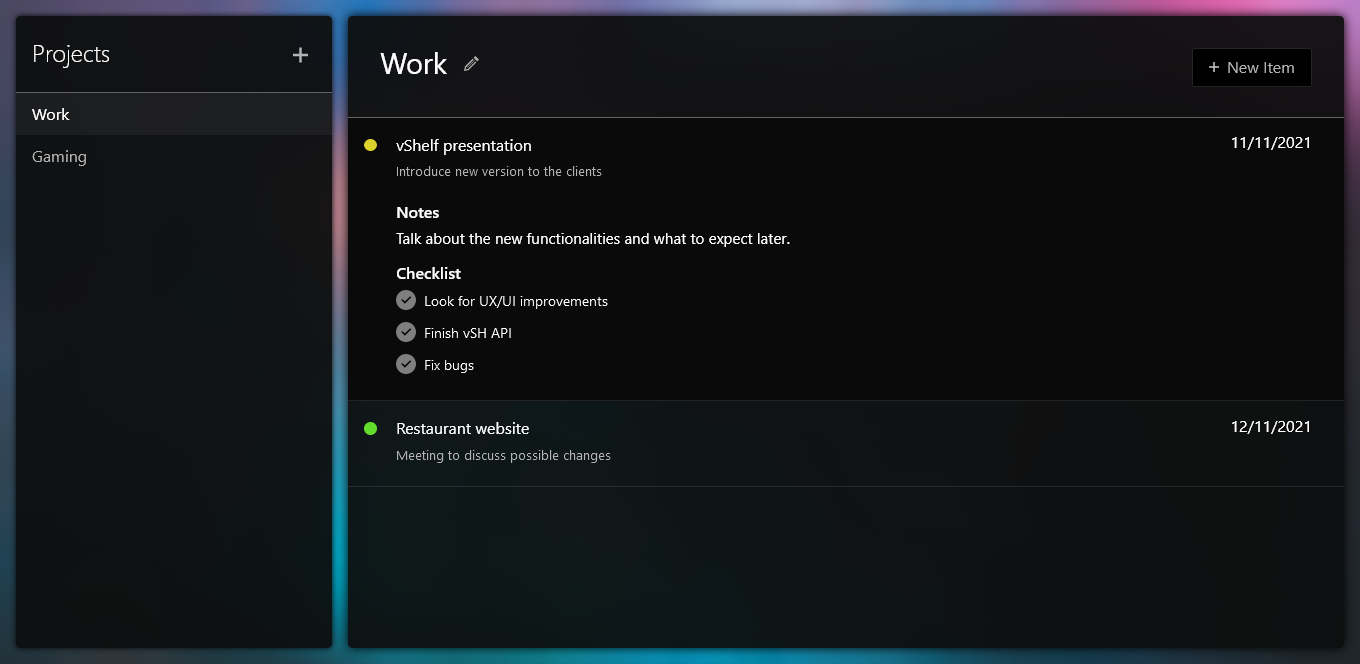
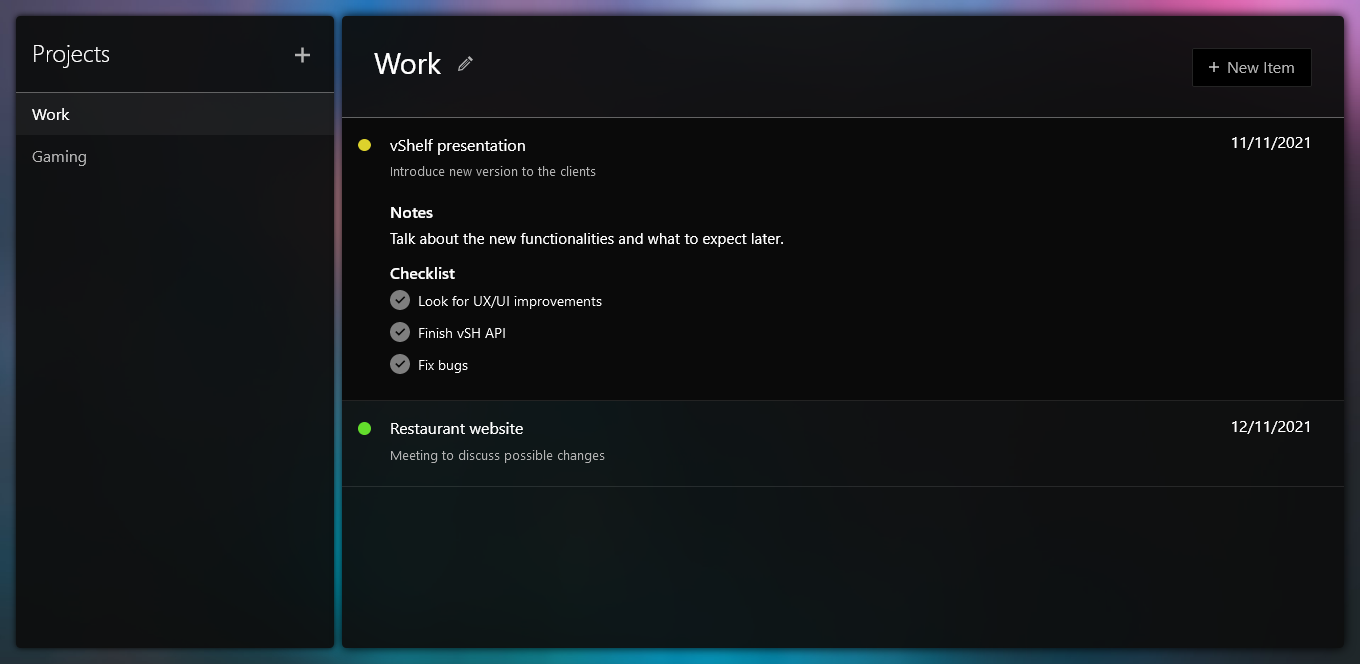
Update README

Changed region(s): [[0.2162, 0.0301, 0.5868, 0.9639]]

diff --git a/dist/main.js b/dist/main.js
@@ -16,7 +16,7 @@
   \**********************************************************************************************************/
 /***/ ((module, __webpack_exports__, __webpack_require__) => {
 
-eval("__webpack_require__.r(__webpack_exports__);\n/* harmony export */ __webpack_require__.d(__webpack_exports__, {\n/* harmony export */   \"default\": () => (__WEBPACK_DEFAULT_EXPORT__)\n/* harmony export */ });\n/* harmony import */ var _node_modules_css_loader_dist_runtime_noSourceMaps_js__WEBPACK_IMPORTED_MODULE_0__ = __webpack_require__(/*! ../../node_modules/css-loader/dist/runtime/noSourceMaps.js */ \"./node_modules/css-loader/dist/runtime/noSourceMaps.js\");\n/* harmony import */ var _node_modules_css_loader_dist_runtime_noSourceMaps_js__WEBPACK_IMPORTED_MODULE_0___default = /*#__PURE__*/__webpack_require__.n(_node_modules_css_loader_dist_runtime_noSourceMaps_js__WEBPACK_IMPORTED_MODULE_0__);\n/* harmony import */ var _node_modules_css_loader_dist_runtime_api_js__WEBPACK_IMPORTED_MODULE_1__ = __webpack_require__(/*! ../../node_modules/css-loader/dist/runtime/api.js */ \"./node_modules/css-loader/dist/runtime/api.js\");\n/* harmony import */ var _node_modules_css_loader_dist_runtime_api_js__WEBPACK_IMPORTED_MODULE_1___default = /*#__PURE__*/__webpack_require__.n(_node_modules_css_loader_dist_runtime_api_js__WEBPACK_IMPORTED_MODULE_1__);\n/* harmony import */ var _node_modules_css_loader_dist_runtime_getUrl_js__WEBPACK_IMPORTED_MODULE_2__ = __webpack_require__(/*! ../../node_modules/css-loader/dist/runtime/getUrl.js */ \"./node_modules/css-loader/dist/runtime/getUrl.js\");\n/* harmony import */ var _node_modules_css_loader_dist_runtime_getUrl_js__WEBPACK_IMPORTED_MODULE_2___default = /*#__PURE__*/__webpack_require__.n(_node_modules_css_loader_dist_runtime_getUrl_js__WEBPACK_IMPORTED_MODULE_2__);\n// Imports\n\n\n\nvar ___CSS_LOADER_URL_IMPORT_0___ = new URL(/* asset import */ __webpack_require__(/*! ../assets/bg.jpg */ \"./src/assets/bg.jpg\"), __webpack_require__.b);\nvar ___CSS_LOADER_EXPORT___ = _node_modules_css_loader_dist_runtime_api_js__WEBPACK_IMPORTED_MODULE_1___default()((_node_modules_css_loader_dist_runtime_noSourceMaps_js__WEBPACK_IMPORTED_MODULE_0___default()));\nvar ___CSS_LOADER_URL_REPLACEMENT_0___ = _node_modules_css_loader_dist_runtime_getUrl_js__WEBPACK_IMPORTED_MODULE_2___default()(___CSS_LOADER_URL_IMPORT_0___);\n// Module\n___CSS_LOADER_EXPORT___.push([module.id, \"* {\\n  margin: 0;\\n  padding: 0;\\n  box-sizing: border-box;\\n  text-decoration: none;\\n  border: 0;\\n  list-style: none;\\n  font-size: 16px;\\n  line-height: 1;\\n}\\n\\nbody {\\n  background-color: #fff;\\n  color: #fff;\\n  font-family: -apple-system, BlinkMacSystemFont, \\\"Segoe UI\\\", \\\"Open Sans\\\", Roboto, Oxygen, Ubuntu, Cantarell, \\\"Helvetica Neue\\\", sans-serif;\\n  width: 100%;\\n  height: 100vh;\\n}\\n\\ninput:focus,\\ntextarea:focus,\\nbutton:focus {\\n  outline: none;\\n}\\n\\n.btn {\\n  font-family: -apple-system, BlinkMacSystemFont, \\\"Segoe UI\\\", \\\"Open Sans\\\", Roboto, Oxygen, Ubuntu, Cantarell, \\\"Helvetica Neue\\\", sans-serif;\\n  font-size: 0.8rem;\\n  padding: 0.4rem 1rem;\\n  cursor: pointer;\\n  background-color: transparent;\\n  border: 1px solid #b3b3b3;\\n  color: #b3b3b3;\\n  transition: 0.3s;\\n  border-radius: 2px;\\n}\\n\\n.btn:hover {\\n  color: #fff;\\n  border: 1px solid #fff;\\n}\\n\\n.btn:focus {\\n  outline: 1px solid #fff;\\n  outline-offset: -1px;\\n}\\n\\n.overlay {\\n  position: absolute;\\n  top: 0;\\n  left: 0;\\n  width: 100%;\\n  height: 100%;\\n  background-color: rgba(0, 0, 0, 0.9);\\n  display: flex;\\n  justify-content: center;\\n  align-items: center;\\n  z-index: 1;\\n  border-radius: 0.25rem;\\n  animation: fade-in 0.3s;\\n}\\n\\n.form-wrapper {\\n  overflow-y: auto;\\n  display: flex;\\n  flex-direction: column-reverse;\\n  width: 90%;\\n  max-width: 650px;\\n  max-height: 90%;\\n  animation: zoom-out 0.3s;\\n}\\n\\n.form {\\n  background-color: #0d0e0e;\\n  padding: 1.5rem 1rem;\\n  border-radius: 0.25rem;\\n  max-height: 90%;\\n  z-index: 2;\\n  position: relative;\\n}\\n.form p {\\n  margin-bottom: 0.5rem;\\n  font-weight: 600;\\n}\\n\\n#btn-close-form {\\n  position: absolute;\\n  right: 0;\\n  top: 0;\\n  background-color: transparent;\\n  padding: 1rem 1rem 0.25rem 1rem;\\n  border: 0;\\n  outline: none;\\n}\\n#btn-close-form svg {\\n  fill: #fff;\\n  width: 15px;\\n  height: 15px;\\n  pointer-events: none;\\n}\\n\\n.form-item {\\n  display: block;\\n}\\n.form-item label {\\n  display: block;\\n  margin-bottom: 0.5rem;\\n  font-weight: 600;\\n}\\n.form-item input {\\n  width: 100%;\\n  margin-bottom: 1rem;\\n  padding: 0.5rem;\\n  background-color: rgba(255, 255, 255, 0.05);\\n  border: 1px solid rgba(179, 179, 179, 0.2);\\n  color: #fff;\\n  font-family: -apple-system, BlinkMacSystemFont, \\\"Segoe UI\\\", \\\"Open Sans\\\", Roboto, Oxygen, Ubuntu, Cantarell, \\\"Helvetica Neue\\\", sans-serif;\\n}\\n.form-item input:focus {\\n  border: 1px solid rgba(179, 179, 179, 0.5);\\n}\\n\\n#form-item--notes {\\n  min-width: 100%;\\n  max-width: 100%;\\n  min-height: 80px;\\n  margin-bottom: 1rem;\\n  font-family: -apple-system, BlinkMacSystemFont, \\\"Segoe UI\\\", \\\"Open Sans\\\", Roboto, Oxygen, Ubuntu, Cantarell, \\\"Helvetica Neue\\\", sans-serif;\\n  padding: 0.5rem;\\n  background-color: rgba(255, 255, 255, 0.05);\\n  border: 1px solid rgba(179, 179, 179, 0.2);\\n  color: #fff;\\n  line-height: 1.4;\\n}\\n\\n#form-item--notes:focus {\\n  border: 1px solid rgba(179, 179, 179, 0.5);\\n}\\n\\n.form-group {\\n  display: flex;\\n  flex-wrap: wrap;\\n  column-gap: 2rem;\\n}\\n\\n.left {\\n  flex-grow: 1;\\n}\\n\\n.radio-wrapper {\\n  display: flex;\\n  justify-content: left;\\n  align-items: center;\\n  gap: 1rem;\\n}\\n\\n.radio-item {\\n  display: flex;\\n  align-items: center;\\n  line-height: 1.8;\\n  padding-right: 2rem;\\n}\\n.radio-item input {\\n  margin-top: 0.65rem;\\n  margin-right: 0.3rem;\\n}\\n\\n.checklist {\\n  display: flex;\\n  flex-direction: column;\\n}\\n.checklist input:not(:first-child) {\\n  border-top: 0;\\n  margin-bottom: 0;\\n}\\n\\n.checklist-item {\\n  display: flex;\\n}\\n.checklist-item input {\\n  margin-bottom: 0;\\n}\\n\\n#btn-new-checklist-item {\\n  height: 41px;\\n  aspect-ratio: 1;\\n  font-size: 2rem;\\n  font-weight: 300;\\n  display: flex;\\n  justify-content: center;\\n  align-items: flex-end;\\n  border-radius: 0 0.25rem 0.25rem 0;\\n  border: 1px solid rgba(179, 179, 179, 0.2);\\n  padding: 0.4rem 0 0.45rem;\\n  border-left: 0;\\n}\\n#btn-new-checklist-item svg {\\n  pointer-events: none;\\n  fill: #ccc;\\n  width: 15px;\\n  transition: 0.3s;\\n}\\n\\n#btn-new-checklist-item:hover {\\n  border: 1px solid rgba(179, 179, 179, 0.5);\\n}\\n#btn-new-checklist-item:hover svg {\\n  fill: #fff;\\n}\\n\\n#btn-submit-form {\\n  margin: 1rem 0 0;\\n}\\n\\n@keyframes zoom-out {\\n  0% {\\n    opacity: 0;\\n    transform: scale(1.2);\\n  }\\n  100% {\\n    opacity: 1;\\n    transform: scale(1);\\n  }\\n}\\n@keyframes fade-in {\\n  0% {\\n    opacity: 0;\\n  }\\n  100% {\\n    opacity: 1;\\n  }\\n}\\n#header {\\n  padding: 2rem 2rem;\\n  border-bottom: 1px solid rgba(179, 179, 179, 0.5);\\n}\\n\\n.header-title {\\n  display: flex;\\n  flex-wrap: wrap;\\n  position: relative;\\n  width: max-content;\\n  max-width: 60%;\\n  transition: width 0.5s ease-in-out;\\n}\\n\\nh1 {\\n  font-weight: 400;\\n  font-size: 1.8rem;\\n  padding-bottom: 0.5rem;\\n  overflow: hidden;\\n}\\n\\n.tip {\\n  position: absolute;\\n  left: 0;\\n  bottom: -0.8rem;\\n  font-size: 0.8rem;\\n  display: none;\\n  color: #b3b3b3;\\n}\\n\\n#btn-edit-project {\\n  border: 0;\\n  outline: none;\\n  position: absolute;\\n  top: 50%;\\n  transform: translateY(-50%);\\n  right: -3rem;\\n}\\n#btn-edit-project svg {\\n  width: 15px;\\n  fill: #b3b3b3;\\n  padding-bottom: 0.2rem;\\n  transition: 0.3s;\\n}\\n\\n#btn-edit-project:hover {\\n  border: 0;\\n}\\n#btn-edit-project:hover svg {\\n  fill: #fff;\\n  pointer-events: none;\\n}\\n\\n#btn-new-todo {\\n  position: absolute;\\n  right: 2rem;\\n  top: 2rem;\\n  display: flex;\\n  align-items: center;\\n  gap: 0.5rem;\\n  border: 1px solid rgba(179, 179, 179, 0.2);\\n  background-color: #000;\\n}\\n#btn-new-todo svg {\\n  fill: #ccc;\\n  width: 10px;\\n  transition: 0.3s;\\n}\\n#btn-new-todo span {\\n  font-size: 1rem;\\n  padding-bottom: 0.1rem;\\n}\\n#btn-new-todo:hover {\\n  background-color: rgba(255, 255, 255, 0.05);\\n  border: 1px solid rgba(179, 179, 179, 0.3);\\n}\\n#btn-new-todo:hover svg {\\n  fill: #fff;\\n}\\n\\n#project-edit-title {\\n  position: absolute;\\n  left: 0;\\n  width: 100%;\\n  height: 100%;\\n  font-weight: 400;\\n  font-size: 1.8rem;\\n  padding-bottom: 0.5rem;\\n  font-family: -apple-system, BlinkMacSystemFont, \\\"Segoe UI\\\", \\\"Open Sans\\\", Roboto, Oxygen, Ubuntu, Cantarell, \\\"Helvetica Neue\\\", sans-serif;\\n  background-color: #0d0e0e;\\n  color: #fff;\\n}\\n\\n.expanded-title {\\n  width: 100%;\\n}\\n\\n#content {\\n  width: 100%;\\n  height: 100%;\\n  min-height: 600px;\\n  padding: 1rem;\\n  display: flex;\\n  gap: 1rem;\\n  background: url(\" + ___CSS_LOADER_URL_REPLACEMENT_0___ + \") no-repeat;\\n  background-size: cover;\\n  overflow: hidden;\\n}\\n\\n#projects {\\n  width: 320px;\\n  box-shadow: 0 0 5px #080808;\\n  background-color: rgba(13, 14, 14, 0.94);\\n  border-radius: 0.25rem;\\n  display: flex;\\n  flex-direction: column;\\n}\\n\\n.projects--header {\\n  display: flex;\\n  justify-content: space-between;\\n  padding: 1.5rem 1rem 1.5rem 1rem;\\n  border-bottom: 1px solid rgba(179, 179, 179, 0.5);\\n}\\n.projects--header h2 {\\n  font-size: 1.5rem;\\n  font-weight: 300;\\n}\\n\\n.projects--list {\\n  overflow-y: auto;\\n}\\n\\n.project-item {\\n  display: block;\\n  padding: 0.8rem 1rem;\\n  color: #b3b3b3;\\n  font-family: -apple-system, BlinkMacSystemFont, \\\"Segoe UI\\\", \\\"Open Sans\\\", Roboto, Oxygen, Ubuntu, Cantarell, \\\"Helvetica Neue\\\", sans-serif;\\n  z-index: 1000;\\n  word-wrap: break-word;\\n}\\n\\n.project-item:hover {\\n  color: #fff;\\n  transition: 0.3s;\\n}\\n\\n.project-item--active {\\n  background-color: rgba(255, 255, 255, 0.05);\\n  color: #fff;\\n}\\n\\n#btn-new-project {\\n  border: 0;\\n  outline: none;\\n  padding: 0.2rem 0.5rem 0 0;\\n}\\n#btn-new-project svg {\\n  width: 15px;\\n  fill: #b3b3b3;\\n  transition: 0.3s;\\n}\\n\\n#btn-new-project:hover svg {\\n  fill: #fff;\\n}\\n\\n#btn-new-project:focus {\\n  outline: none;\\n}\\n\\n#new-project-input {\\n  width: 100%;\\n  display: block;\\n  padding: 0.8rem 1rem;\\n  font-family: -apple-system, BlinkMacSystemFont, \\\"Segoe UI\\\", \\\"Open Sans\\\", Roboto, Oxygen, Ubuntu, Cantarell, \\\"Helvetica Neue\\\", sans-serif;\\n  animation: slide-down 0.3s;\\n}\\n\\n@keyframes slide-down {\\n  0% {\\n    transform: translateY(-50%);\\n  }\\n  100% {\\n    transform: unset;\\n  }\\n}\\n#todo {\\n  position: relative;\\n  width: calc(100% - 320px);\\n  box-shadow: 0 0 10px #000;\\n  background-color: rgba(13, 14, 14, 0.94);\\n  border-radius: 0.25rem;\\n  display: flex;\\n  flex-direction: column;\\n}\\n\\n.list-container {\\n  overflow-y: auto;\\n}\\n\\n.list-item {\\n  border-bottom: 1px solid rgba(255, 255, 255, 0.1);\\n  transition: 0.3s;\\n}\\n\\n.basic-info {\\n  display: flex;\\n  justify-content: space-between;\\n  flex-wrap: wrap;\\n  padding: 1rem 2rem 1rem 3rem;\\n  cursor: pointer;\\n}\\n.basic-info div {\\n  display: flex;\\n  flex-direction: column;\\n  min-width: 70%;\\n}\\n.basic-info span {\\n  display: inline-block;\\n}\\n\\n.list-item--title {\\n  line-height: 1.3;\\n  position: relative;\\n}\\n\\n.list-item--priority {\\n  position: absolute;\\n  left: -2rem;\\n  top: 0.3rem;\\n  width: 0.8rem;\\n  aspect-ratio: 1;\\n  border-radius: 100%;\\n}\\n\\n.low-priority {\\n  background-color: #63dd2c;\\n}\\n\\n.normal-priority {\\n  background-color: #ddd22c;\\n}\\n\\n.high-priority {\\n  background-color: #dd2c2c;\\n}\\n\\n.list-item--description {\\n  font-size: 0.8rem;\\n  color: #b3b3b3;\\n  margin: 0.5rem 0;\\n  line-height: 1.3;\\n}\\n\\n.full-info {\\n  padding-left: 3rem;\\n  padding-right: 2rem;\\n  max-height: 0px;\\n  transition: max-height 0.3s ease-in-out;\\n  overflow: hidden;\\n}\\n\\n.list-item__notes--title {\\n  font-weight: 600;\\n  margin-bottom: 0.5rem;\\n}\\n\\n.list-item__notes--text {\\n  line-height: 1.3rem;\\n  font-size: 0.95rem;\\n}\\n\\n.list-item--checklist {\\n  display: flex;\\n  flex-direction: column;\\n  font-size: 0.95rem;\\n  margin: 1rem 0;\\n}\\n.list-item--checklist p {\\n  font-weight: 600;\\n  margin-bottom: 0.5rem;\\n}\\n\\n.list-item__checklist--icon {\\n  min-width: 20px;\\n  max-width: 20px;\\n  aspect-ratio: 1;\\n  background-size: contain;\\n  display: block;\\n  margin-right: 0.5rem;\\n  fill: rgba(255, 255, 255, 0.48);\\n}\\n\\n.list-item__checklist--item {\\n  margin-bottom: 0.5rem;\\n  display: flex;\\n  align-items: center;\\n  position: relative;\\n  font-size: 0.9rem;\\n  line-height: 1.3;\\n}\\n\\n.expanded {\\n  background: #0a0a0a;\\n}\", \"\"]);\n// Exports\n/* harmony default export */ const __WEBPACK_DEFAULT_EXPORT__ = (___CSS_LOADER_EXPORT___);\n\n\n//# sourceURL=webpack://todo-list/./src/styles/app.scss?./node_modules/css-loader/dist/cjs.js!./node_modules/sass-loader/dist/cjs.js");
+eval("__webpack_require__.r(__webpack_exports__);\n/* harmony export */ __webpack_require__.d(__webpack_exports__, {\n/* harmony export */   \"default\": () => (__WEBPACK_DEFAULT_EXPORT__)\n/* harmony export */ });\n/* harmony import */ var _node_modules_css_loader_dist_runtime_noSourceMaps_js__WEBPACK_IMPORTED_MODULE_0__ = __webpack_require__(/*! ../../node_modules/css-loader/dist/runtime/noSourceMaps.js */ \"./node_modules/css-loader/dist/runtime/noSourceMaps.js\");\n/* harmony import */ var _node_modules_css_loader_dist_runtime_noSourceMaps_js__WEBPACK_IMPORTED_MODULE_0___default = /*#__PURE__*/__webpack_require__.n(_node_modules_css_loader_dist_runtime_noSourceMaps_js__WEBPACK_IMPORTED_MODULE_0__);\n/* harmony import */ var _node_modules_css_loader_dist_runtime_api_js__WEBPACK_IMPORTED_MODULE_1__ = __webpack_require__(/*! ../../node_modules/css-loader/dist/runtime/api.js */ \"./node_modules/css-loader/dist/runtime/api.js\");\n/* harmony import */ var _node_modules_css_loader_dist_runtime_api_js__WEBPACK_IMPORTED_MODULE_1___default = /*#__PURE__*/__webpack_require__.n(_node_modules_css_loader_dist_runtime_api_js__WEBPACK_IMPORTED_MODULE_1__);\n/* harmony import */ var _node_modules_css_loader_dist_runtime_getUrl_js__WEBPACK_IMPORTED_MODULE_2__ = __webpack_require__(/*! ../../node_modules/css-loader/dist/runtime/getUrl.js */ \"./node_modules/css-loader/dist/runtime/getUrl.js\");\n/* harmony import */ var _node_modules_css_loader_dist_runtime_getUrl_js__WEBPACK_IMPORTED_MODULE_2___default = /*#__PURE__*/__webpack_require__.n(_node_modules_css_loader_dist_runtime_getUrl_js__WEBPACK_IMPORTED_MODULE_2__);\n// Imports\n\n\n\nvar ___CSS_LOADER_URL_IMPORT_0___ = new URL(/* asset import */ __webpack_require__(/*! ../assets/bg.jpg */ \"./src/assets/bg.jpg\"), __webpack_require__.b);\nvar ___CSS_LOADER_EXPORT___ = _node_modules_css_loader_dist_runtime_api_js__WEBPACK_IMPORTED_MODULE_1___default()((_node_modules_css_loader_dist_runtime_noSourceMaps_js__WEBPACK_IMPORTED_MODULE_0___default()));\nvar ___CSS_LOADER_URL_REPLACEMENT_0___ = _node_modules_css_loader_dist_runtime_getUrl_js__WEBPACK_IMPORTED_MODULE_2___default()(___CSS_LOADER_URL_IMPORT_0___);\n// Module\n___CSS_LOADER_EXPORT___.push([module.id, \"* {\\n  margin: 0;\\n  padding: 0;\\n  box-sizing: border-box;\\n  text-decoration: none;\\n  border: 0;\\n  list-style: none;\\n  font-size: 16px;\\n  line-height: 1;\\n}\\n\\nbody {\\n  background-color: #fff;\\n  color: #fff;\\n  font-family: -apple-system, BlinkMacSystemFont, \\\"Segoe UI\\\", \\\"Open Sans\\\", Roboto, Oxygen, Ubuntu, Cantarell, \\\"Helvetica Neue\\\", sans-serif;\\n  width: 100%;\\n  height: 100vh;\\n}\\n\\ninput:focus,\\ntextarea:focus,\\nbutton:focus {\\n  outline: none;\\n}\\n\\n.btn {\\n  font-family: -apple-system, BlinkMacSystemFont, \\\"Segoe UI\\\", \\\"Open Sans\\\", Roboto, Oxygen, Ubuntu, Cantarell, \\\"Helvetica Neue\\\", sans-serif;\\n  font-size: 0.8rem;\\n  padding: 0.4rem 1rem;\\n  cursor: pointer;\\n  background-color: transparent;\\n  border: 1px solid #b3b3b3;\\n  color: #b3b3b3;\\n  transition: 0.3s;\\n  border-radius: 2px;\\n}\\n\\n.btn:hover {\\n  color: #fff;\\n  border: 1px solid #fff;\\n}\\n\\n.btn:focus {\\n  outline: 1px solid #fff;\\n  outline-offset: -1px;\\n}\\n\\n.overlay {\\n  position: absolute;\\n  top: 0;\\n  left: 0;\\n  width: 100%;\\n  height: 100%;\\n  background-color: rgba(0, 0, 0, 0.9);\\n  display: flex;\\n  justify-content: center;\\n  align-items: center;\\n  z-index: 1;\\n  border-radius: 0.25rem;\\n  animation: fade-in 0.3s;\\n}\\n\\n.form-wrapper {\\n  overflow-y: auto;\\n  display: flex;\\n  flex-direction: column-reverse;\\n  width: 90%;\\n  max-width: 650px;\\n  max-height: 90%;\\n  animation: zoom-out 0.3s;\\n}\\n\\n.form {\\n  background-color: #0d0e0e;\\n  padding: 1.5rem 1rem;\\n  border-radius: 0.25rem;\\n  max-height: 90%;\\n  z-index: 2;\\n  position: relative;\\n}\\n.form p {\\n  margin-bottom: 0.5rem;\\n  font-weight: 600;\\n}\\n\\n#btn-close-form {\\n  position: absolute;\\n  right: 0;\\n  top: 0;\\n  background-color: transparent;\\n  padding: 1rem 1rem 0.25rem 1rem;\\n  border: 0;\\n  outline: none;\\n}\\n#btn-close-form svg {\\n  fill: #fff;\\n  width: 15px;\\n  height: 15px;\\n  pointer-events: none;\\n}\\n\\n.form-item {\\n  display: block;\\n}\\n.form-item label {\\n  display: block;\\n  margin-bottom: 0.5rem;\\n  font-weight: 600;\\n}\\n.form-item input {\\n  width: 100%;\\n  margin-bottom: 1rem;\\n  padding: 0.5rem;\\n  background-color: rgba(255, 255, 255, 0.05);\\n  border: 1px solid rgba(179, 179, 179, 0.2);\\n  color: #fff;\\n  font-family: -apple-system, BlinkMacSystemFont, \\\"Segoe UI\\\", \\\"Open Sans\\\", Roboto, Oxygen, Ubuntu, Cantarell, \\\"Helvetica Neue\\\", sans-serif;\\n}\\n.form-item input:focus {\\n  border: 1px solid rgba(179, 179, 179, 0.5);\\n}\\n\\n#form-item--notes {\\n  min-width: 100%;\\n  max-width: 100%;\\n  min-height: 80px;\\n  margin-bottom: 1rem;\\n  font-family: -apple-system, BlinkMacSystemFont, \\\"Segoe UI\\\", \\\"Open Sans\\\", Roboto, Oxygen, Ubuntu, Cantarell, \\\"Helvetica Neue\\\", sans-serif;\\n  padding: 0.5rem;\\n  background-color: rgba(255, 255, 255, 0.05);\\n  border: 1px solid rgba(179, 179, 179, 0.2);\\n  color: #fff;\\n  line-height: 1.4;\\n}\\n\\n#form-item--notes:focus {\\n  border: 1px solid rgba(179, 179, 179, 0.5);\\n}\\n\\n.form-group {\\n  display: flex;\\n  flex-wrap: wrap;\\n  column-gap: 2rem;\\n}\\n\\n.left {\\n  flex-grow: 1;\\n}\\n\\n.radio-wrapper {\\n  display: flex;\\n  justify-content: left;\\n  align-items: center;\\n  gap: 1rem;\\n}\\n\\n.radio-item {\\n  display: flex;\\n  align-items: center;\\n  line-height: 1.8;\\n  padding-right: 2rem;\\n}\\n.radio-item input {\\n  margin-top: 0.65rem;\\n  margin-right: 0.3rem;\\n}\\n\\n.checklist {\\n  display: flex;\\n  flex-direction: column;\\n}\\n.checklist input:not(:first-child) {\\n  border-top: 0;\\n  margin-bottom: 0;\\n}\\n\\n.checklist-item {\\n  display: flex;\\n}\\n.checklist-item input {\\n  margin-bottom: 0;\\n}\\n\\n#btn-new-checklist-item {\\n  height: 41px;\\n  aspect-ratio: 1;\\n  font-size: 2rem;\\n  font-weight: 300;\\n  display: flex;\\n  justify-content: center;\\n  align-items: flex-end;\\n  border-radius: 0 0.25rem 0.25rem 0;\\n  border: 1px solid rgba(179, 179, 179, 0.2);\\n  padding: 0.4rem 0 0.45rem;\\n  border-left: 0;\\n}\\n#btn-new-checklist-item svg {\\n  pointer-events: none;\\n  fill: #ccc;\\n  width: 15px;\\n  transition: 0.3s;\\n}\\n\\n#btn-new-checklist-item:hover {\\n  border: 1px solid rgba(179, 179, 179, 0.5);\\n}\\n#btn-new-checklist-item:hover svg {\\n  fill: #fff;\\n}\\n\\n#btn-submit-form {\\n  margin: 1rem 0 0;\\n}\\n\\n@keyframes zoom-out {\\n  0% {\\n    opacity: 0;\\n    transform: scale(1.2);\\n  }\\n  100% {\\n    opacity: 1;\\n    transform: scale(1);\\n  }\\n}\\n@keyframes fade-in {\\n  0% {\\n    opacity: 0;\\n  }\\n  100% {\\n    opacity: 1;\\n  }\\n}\\n#header {\\n  padding: 2rem 2rem;\\n  border-bottom: 1px solid rgba(179, 179, 179, 0.5);\\n}\\n\\n.header-title {\\n  display: flex;\\n  flex-wrap: wrap;\\n  position: relative;\\n  width: max-content;\\n  max-width: 60%;\\n  transition: width 0.5s ease-in-out;\\n}\\n\\nh1 {\\n  font-weight: 400;\\n  font-size: 1.8rem;\\n  padding-bottom: 0.5rem;\\n  overflow: hidden;\\n}\\n\\n.tip {\\n  position: absolute;\\n  left: 0;\\n  bottom: -0.8rem;\\n  font-size: 0.8rem;\\n  display: none;\\n  color: #b3b3b3;\\n}\\n\\n#btn-edit-project {\\n  border: 0;\\n  outline: none;\\n  position: absolute;\\n  top: 50%;\\n  transform: translateY(-50%);\\n  right: -3rem;\\n}\\n#btn-edit-project svg {\\n  width: 15px;\\n  fill: #b3b3b3;\\n  padding-bottom: 0.2rem;\\n  transition: 0.3s;\\n}\\n\\n#btn-edit-project:hover {\\n  border: 0;\\n}\\n#btn-edit-project:hover svg {\\n  fill: #fff;\\n  pointer-events: none;\\n}\\n\\n#btn-new-todo {\\n  position: absolute;\\n  right: 2rem;\\n  top: 2rem;\\n  display: flex;\\n  align-items: center;\\n  gap: 0.5rem;\\n  border: 1px solid rgba(179, 179, 179, 0.2);\\n  background-color: #000;\\n}\\n#btn-new-todo svg {\\n  fill: #ccc;\\n  width: 10px;\\n  transition: 0.3s;\\n}\\n#btn-new-todo span {\\n  font-size: 1rem;\\n  padding-bottom: 0.1rem;\\n}\\n#btn-new-todo:hover {\\n  background-color: rgba(255, 255, 255, 0.05);\\n  border: 1px solid rgba(179, 179, 179, 0.3);\\n}\\n#btn-new-todo:hover svg {\\n  fill: #fff;\\n}\\n\\n#project-edit-title {\\n  position: absolute;\\n  left: 0;\\n  width: 100%;\\n  height: 100%;\\n  font-weight: 400;\\n  font-size: 1.8rem;\\n  padding-bottom: 0.5rem;\\n  font-family: -apple-system, BlinkMacSystemFont, \\\"Segoe UI\\\", \\\"Open Sans\\\", Roboto, Oxygen, Ubuntu, Cantarell, \\\"Helvetica Neue\\\", sans-serif;\\n  background-color: #0d0e0e;\\n  color: #fff;\\n}\\n\\n.expanded-title {\\n  width: 100%;\\n}\\n\\n#content {\\n  width: 100%;\\n  height: 100%;\\n  min-height: 600px;\\n  padding: 1rem;\\n  display: flex;\\n  gap: 0.5rem;\\n  background: url(\" + ___CSS_LOADER_URL_REPLACEMENT_0___ + \") no-repeat;\\n  background-size: cover;\\n  overflow: hidden;\\n}\\n\\n#projects {\\n  width: 320px;\\n  box-shadow: 0 0 5px #080808;\\n  background-color: rgba(13, 14, 14, 0.94);\\n  border-radius: 0.25rem;\\n  display: flex;\\n  flex-direction: column;\\n}\\n\\n.projects--header {\\n  display: flex;\\n  justify-content: space-between;\\n  padding: 1.5rem 1rem 1.5rem 1rem;\\n  border-bottom: 1px solid rgba(179, 179, 179, 0.5);\\n}\\n.projects--header h2 {\\n  font-size: 1.5rem;\\n  font-weight: 300;\\n}\\n\\n.projects--list {\\n  overflow-y: auto;\\n}\\n\\n.project-item {\\n  display: block;\\n  padding: 0.8rem 1rem;\\n  color: #b3b3b3;\\n  font-family: -apple-system, BlinkMacSystemFont, \\\"Segoe UI\\\", \\\"Open Sans\\\", Roboto, Oxygen, Ubuntu, Cantarell, \\\"Helvetica Neue\\\", sans-serif;\\n  z-index: 1000;\\n  word-wrap: break-word;\\n}\\n\\n.project-item:hover {\\n  color: #fff;\\n  transition: 0.3s;\\n}\\n\\n.project-item--active {\\n  background-color: rgba(255, 255, 255, 0.05);\\n  color: #fff;\\n}\\n\\n#btn-new-project {\\n  border: 0;\\n  outline: none;\\n  padding: 0.2rem 0.5rem 0 0;\\n}\\n#btn-new-project svg {\\n  width: 15px;\\n  fill: #b3b3b3;\\n  transition: 0.3s;\\n}\\n\\n#btn-new-project:hover svg {\\n  fill: #fff;\\n}\\n\\n#btn-new-project:focus {\\n  outline: none;\\n}\\n\\n#new-project-input {\\n  width: 100%;\\n  display: block;\\n  padding: 0.8rem 1rem;\\n  font-family: -apple-system, BlinkMacSystemFont, \\\"Segoe UI\\\", \\\"Open Sans\\\", Roboto, Oxygen, Ubuntu, Cantarell, \\\"Helvetica Neue\\\", sans-serif;\\n  animation: slide-down 0.3s;\\n}\\n\\n@keyframes slide-down {\\n  0% {\\n    transform: translateY(-50%);\\n  }\\n  100% {\\n    transform: unset;\\n  }\\n}\\n#todo {\\n  position: relative;\\n  width: calc(100% - 320px);\\n  box-shadow: 0 0 10px #000;\\n  background-color: rgba(13, 14, 14, 0.94);\\n  border-radius: 0.25rem;\\n  display: flex;\\n  flex-direction: column;\\n}\\n\\n.list-container {\\n  overflow-y: auto;\\n}\\n\\n.list-item {\\n  border-bottom: 1px solid rgba(255, 255, 255, 0.1);\\n  transition: 0.3s;\\n}\\n\\n.basic-info {\\n  display: flex;\\n  justify-content: space-between;\\n  flex-wrap: wrap;\\n  padding: 1rem 2rem 1rem 3rem;\\n  cursor: pointer;\\n}\\n.basic-info div {\\n  display: flex;\\n  flex-direction: column;\\n  min-width: 70%;\\n}\\n.basic-info span {\\n  display: inline-block;\\n}\\n\\n.list-item--title {\\n  line-height: 1.3;\\n  position: relative;\\n}\\n\\n.list-item--priority {\\n  position: absolute;\\n  left: -2rem;\\n  top: 0.3rem;\\n  width: 0.8rem;\\n  aspect-ratio: 1;\\n  border-radius: 100%;\\n}\\n\\n.low-priority {\\n  background-color: #63dd2c;\\n}\\n\\n.normal-priority {\\n  background-color: #ddd22c;\\n}\\n\\n.high-priority {\\n  background-color: #dd2c2c;\\n}\\n\\n.list-item--description {\\n  font-size: 0.8rem;\\n  color: #b3b3b3;\\n  margin: 0.5rem 0;\\n  line-height: 1.3;\\n}\\n\\n.full-info {\\n  padding-left: 3rem;\\n  padding-right: 2rem;\\n  max-height: 0px;\\n  transition: max-height 0.3s ease-in-out;\\n  overflow: hidden;\\n}\\n\\n.list-item__notes--title {\\n  font-weight: 600;\\n  margin-bottom: 0.5rem;\\n}\\n\\n.list-item__notes--text {\\n  line-height: 1.3rem;\\n  font-size: 0.95rem;\\n}\\n\\n.list-item--checklist {\\n  display: flex;\\n  flex-direction: column;\\n  font-size: 0.95rem;\\n  margin: 1rem 0;\\n}\\n.list-item--checklist p {\\n  font-weight: 600;\\n  margin-bottom: 0.5rem;\\n}\\n\\n.list-item__checklist--icon {\\n  min-width: 20px;\\n  max-width: 20px;\\n  aspect-ratio: 1;\\n  background-size: contain;\\n  display: block;\\n  margin-right: 0.5rem;\\n  fill: rgba(255, 255, 255, 0.48);\\n}\\n\\n.list-item__checklist--item {\\n  margin-bottom: 0.5rem;\\n  display: flex;\\n  align-items: center;\\n  position: relative;\\n  font-size: 0.9rem;\\n  line-height: 1.3;\\n}\\n\\n.expanded {\\n  background: #0a0a0a;\\n}\", \"\"]);\n// Exports\n/* harmony default export */ const __WEBPACK_DEFAULT_EXPORT__ = (___CSS_LOADER_EXPORT___);\n\n\n//# sourceURL=webpack://todo-list/./src/styles/app.scss?./node_modules/css-loader/dist/cjs.js!./node_modules/sass-loader/dist/cjs.js");
 
 /***/ }),
 
